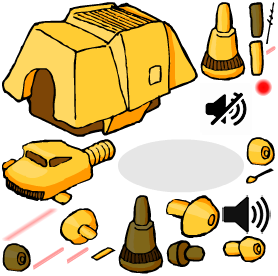
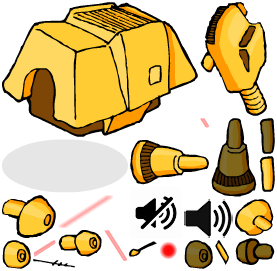
Added content scale factor 2.0 to sound example

diff --git a/example/sound/example.dart b/example/sound/example.dart
@@ -20,7 +20,7 @@ Future main() async {
 
   // load and show the tank GAF asset
 
-  var gafAsset = await GAFAsset.load('assets/tank/tank.gaf',1, 1);
+  var gafAsset = await GAFAsset.load('assets/tank/tank.gaf',1, 2);
   var gafTimeline = gafAsset.getGAFTimelineByLinkage('rootTimeline');
 
   var tank = new GAFMovieClip(gafTimeline);
